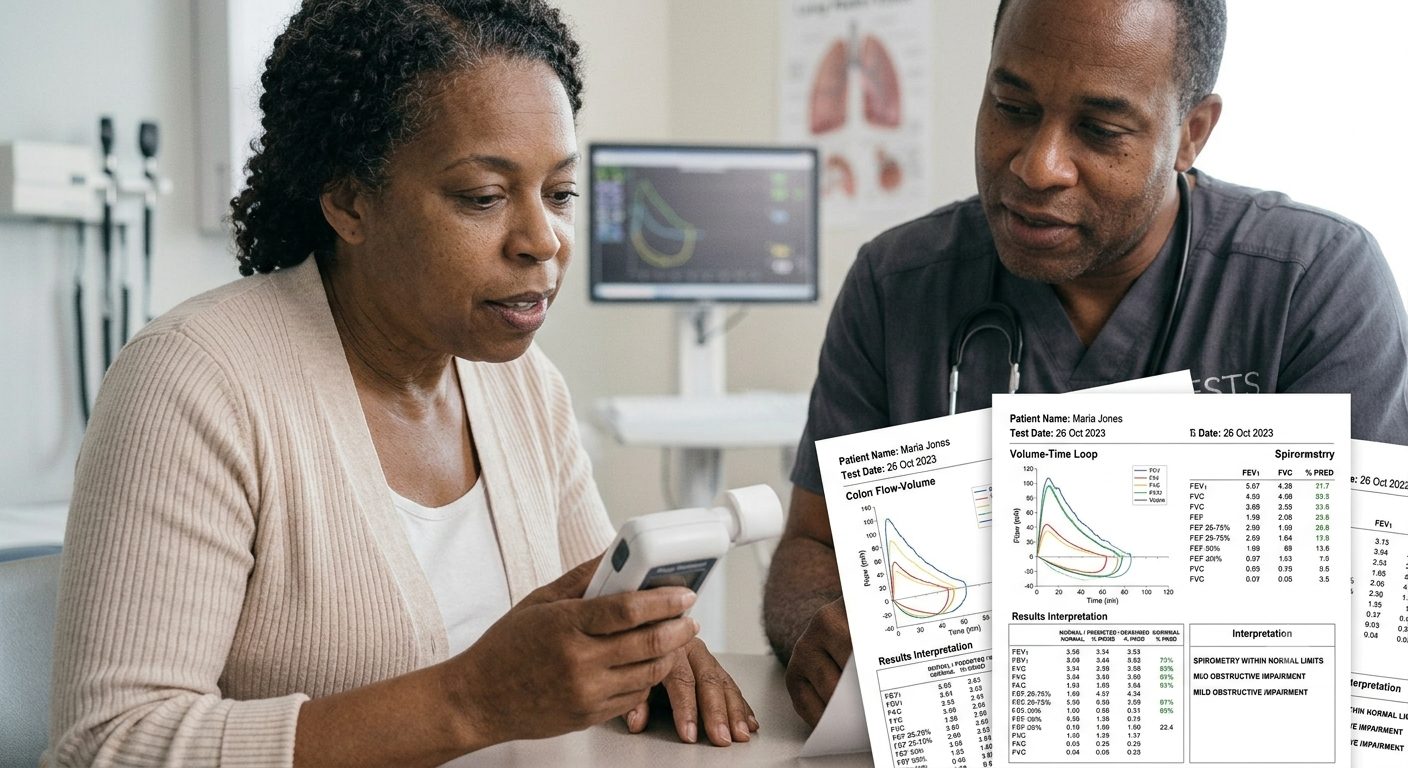
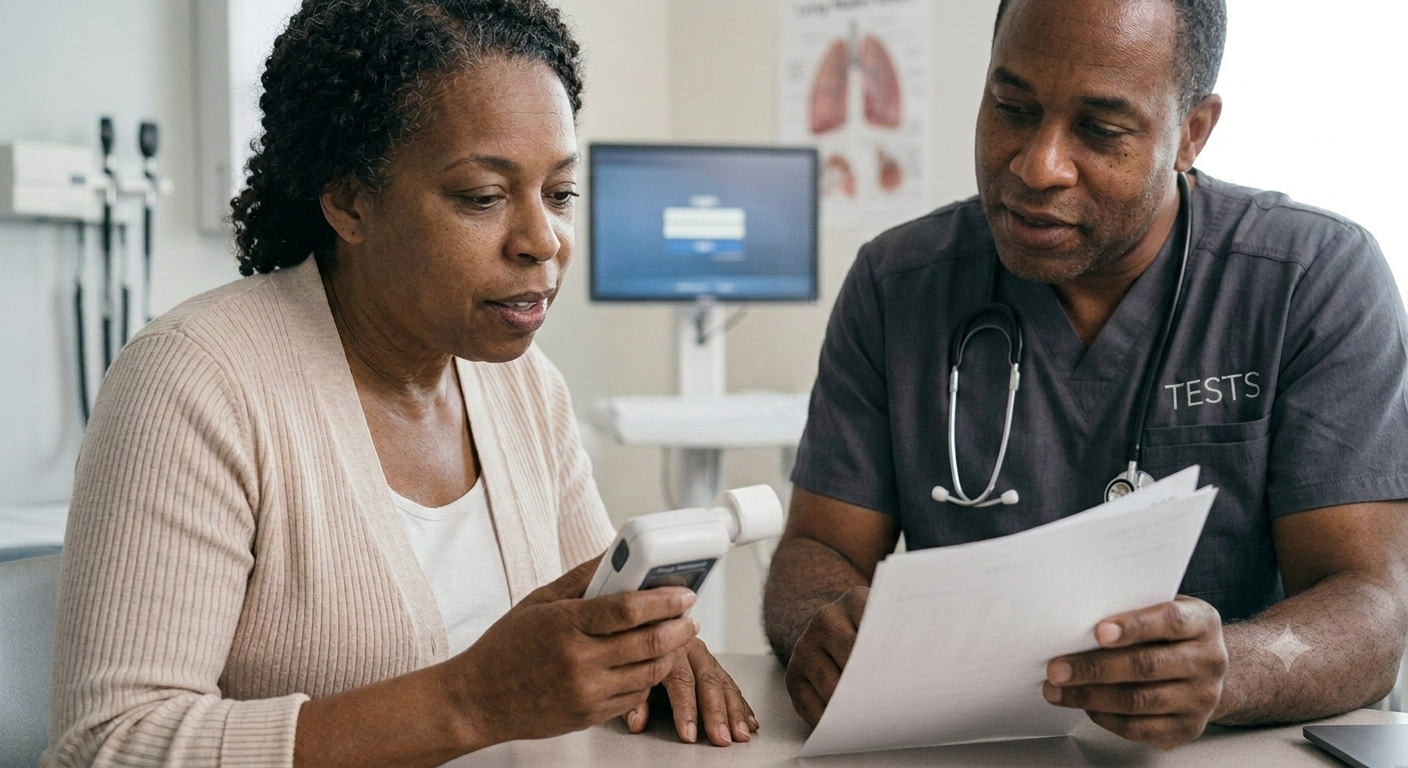
user feedback implementation

Changed region(s): [[0.5625, 0.4688, 1.0, 1.0], [0.4062, 0.1875, 0.5938, 0.4062]]

diff --git a/assets/js/contactForm.js b/assets/js/contactForm.js
@@ -1,33 +1,54 @@
 // assets/js/contactForm.js
 export function initContactForm() {
-  const form = document.getElementById('responsiveContactForm');
+  const form = document.getElementById("responsiveContactForm");
   if (!form) return;
-  
-  form.addEventListener('submit', async (e) => {
+
+  form.addEventListener("submit", async (e) => {
     e.preventDefault();
     const submitBtn = form.querySelector('button[type="submit"]');
     const originalText = submitBtn.innerHTML;
     submitBtn.innerHTML = '<i class="fas fa-spinner fa-spin"></i> Sending...';
     submitBtn.disabled = true;
-    
+
     // Simulate form submission (replace with actual API endpoint)
-    await new Promise(resolve => setTimeout(resolve, 1000));
-    
+    const payload = {
+      name: document.getElementById("name").value,
+      email: document.getElementById("email").value,
+      phone: document.getElementById("phone").value,
+      message: document.getElementById("message").value,
+    };
+
+    const res = await fetch("http://localhost:5000/api/enquiry", {
+      method: "POST",
+      headers: {
+        "Content-Type": "application/json",
+      },
+      body: JSON.stringify(payload),
+    });
+
+    const data = await res.json();
+
+    if (!res.ok) {
+      throw new Error(data.error || "Failed to send");
+    }
+
     // Show success message
     const formContainer = form.parentElement;
-    const successMsg = document.createElement('div');
-    successMsg.className = 'mt-4 p-3 bg-emerald-50 text-emerald-700 rounded-xl text-sm text-center';
-    successMsg.innerHTML = '<i class="fas fa-check-circle mr-1"></i> Thank you! We\'ll contact you shortly.';
+    const successMsg = document.createElement("div");
+    successMsg.className =
+      "mt-4 p-3 bg-emerald-50 text-emerald-700 rounded-xl text-sm text-center";
+    successMsg.innerHTML =
+      '<i class="fas fa-check-circle mr-1"></i> Thank you! We\'ll contact you shortly.';
     form.reset();
-    form.style.display = 'none';
+    form.style.display = "none";
     formContainer.appendChild(successMsg);
-    
+
     submitBtn.innerHTML = originalText;
     submitBtn.disabled = false;
-    
+
     // Reset after 5 seconds
     setTimeout(() => {
-      form.style.display = 'block';
+      form.style.display = "block";
       successMsg.remove();
     }, 5000);
   });

diff --git a/components/contact.html b/components/contact.html
@@ -8,12 +8,14 @@
         </span>
 
         <h2
-          class="text-2xl md:text-3xl font-bold mt-2 text-white leading-tight"
+          class="text-2xl md:text-3xl font-bold mt-2 text-white leading-tight font-serif-display"
         >
           To save lives through respiratory excellence
         </h2>
 
-        <p class="mt-5 leading-relaxed text-sm theme-text-secondary text-justify">
+        <p
+          class="mt-5 leading-relaxed text-sm theme-text-secondary text-justify"
+        >
           BESTS is ready to elevate lung health services across clinics,
           hospitals, NGOs, and companies in Malawi.
         </p>
@@ -97,7 +99,7 @@
       <div
         class="flex-1 card-dark rounded-3xl shadow-2xl border border-california-gold/20 p-6 md:p-8"
       >
-        <h3 class="text-2xl md:text-3xl font-bold text-white">
+        <h3 class="text-2xl md:text-3xl font-bold text-white font-serif-display">
           Request a callback
         </h3>
 
@@ -107,6 +109,8 @@
 
         <form id="responsiveContactForm" class="space-y-5">
           <input
+            id="name"
+            name="name"
             type="text"
             placeholder="Full name / Organization"
             required
@@ -114,6 +118,8 @@
           />
 
           <input
+            id="email"
+            name="email"
             type="email"
             placeholder="Email address"
             required
@@ -121,12 +127,16 @@
           />
 
           <input
+            id="phone"
+             name="phone"
             type="tel"
             placeholder="Phone number (optional)"
             class="w-full px-5 py-4 rounded-2xl bg-dark-green border border-california-gold/30 focus:border-california-gold focus:ring-2 focus:ring-california-gold/20 outline-none transition text-base text-white placeholder-gray-500"
           />
 
           <textarea
+            id="message"
+            name="message"
             rows="4"
             placeholder="Tell us about your lung health needs..."
             class="w-full px-5 py-4 rounded-2xl bg-dark-green border border-california-gold/30 focus:border-california-gold focus:ring-2 focus:ring-california-gold/20 outline-none resize-none text-base text-white placeholder-gray-500"

diff --git a/components/mission.html b/components/mission.html
@@ -35,8 +35,13 @@
       <div class="absolute inset-0 animate-fadeSlide1">
         <img
           src="assets/images/mission/mission1.png"
-          class="absolute inset-0 w-full h-full object-cover"
+          class="absolute inset-0 w-full h-full object-cover z-0"
         />
+
+        <!-- WORD OVERLAY -->
+        <div class="absolute inset-0 flex items-center justify-center z-10 ">
+          <h3 class="mission-word">Consultation</h3>
+        </div>
       </div>
 
       <!-- IMAGE 2 -->
@@ -44,8 +49,12 @@
       <div class="absolute inset-0 animate-fadeSlide2">
         <img
           src="assets/images/mission/mission2.png"
-          class="absolute inset-0 w-full h-full object-cover"
+          class="absolute inset-0 w-full h-full object-cover z-0"
         />
+
+        <div class="absolute inset-0 flex items-center justify-center z-10">
+          <h3 class="mission-word">Spirometry Testing Support</h3>
+        </div>
       </div>
 
       <!-- IMAGE 3 -->
@@ -53,10 +62,13 @@
       <div class="absolute inset-0 animate-fadeSlide3">
         <img
           src="assets/images/mission/mission3.png"
-          class="absolute inset-0 w-full h-full object-cover"
+          class="absolute inset-0 w-full h-full object-cover z-0"
         />
-      </div>
 
+        <div class="absolute inset-0 flex items-center justify-center z-10">
+          <h3 class="mission-word">Test Result Reporting</h3>
+        </div>
+      </div>
       <!-- VIDEO -->
 
       <div class="absolute inset-0 animate-fadeSlide4">
@@ -65,10 +77,14 @@
           muted
           loop
           playsinline
-          class="absolute inset-0 w-full h-full object-cover"
+          class="absolute inset-0 w-full h-full object-cover z-0"
         >
           <source src="assets/images/mission/mission4.mp4" type="video/mp4" />
         </video>
+
+        <div class="absolute inset-0 flex items-center justify-center z-10">
+          <h3 class="mission-word">Spirometry Testing</h3>
+        </div>
       </div>
 
       <!-- DARK GRADIENT -->

diff --git a/assets/css/components.css b/assets/css/components.css
@@ -522,3 +522,70 @@
   }
 
 }
+
+.mission-word {
+  font-size: clamp(2.8rem, 6vw, 6rem);
+  font-weight: 700;
+  color: var(--california-gold);
+  text-transform: uppercase;
+  letter-spacing: 0.12em;
+
+  opacity: 0;
+  transform: translateY(40px) scale(0.95);
+  animation: missionWordAnim 6s ease-in-out infinite;
+
+  text-shadow: 0 12px 35px rgba(0,0,0,0.6);
+  text-align: center;
+
+    max-width: 90%;
+  padding: 0 1rem;
+  line-height: 1.1;
+  word-break: break-word;
+}
+
+@keyframes missionWordAnim {
+  0% {
+    opacity: 0;
+    transform: translateY(40px) scale(0.9);
+    filter: blur(6px);
+  }
+
+  20% {
+    opacity: 1;
+    transform: translateY(0) scale(1);
+    filter: blur(0);
+  }
+
+  60% {
+    opacity: 1;
+    transform: translateY(0) scale(1.02);
+  }
+
+  100% {
+    opacity: 0;
+    transform: translateY(-30px) scale(1.05);
+    filter: blur(4px);
+  }
+}
+.mission-slider::after {
+  content: "";
+  position: absolute;
+  inset: 0;
+  background: radial-gradient(
+    circle at center,
+    rgba(0,0,0,0.25),
+    rgba(0,0,0,0.75)
+  );
+  z-index: 1;
+}
+
+@media (max-width: 640px) {
+  .mission-word {
+    font-size: clamp(1.4rem, 6vw, 2.5rem);
+    letter-spacing: 0.05em;
+  }
+}
+
+#mission .mission-word {
+  color: var(--california-gold) !important;
+}

diff --git a/components/expertise.html b/components/expertise.html
@@ -42,7 +42,7 @@
           Consultation & Testing Support
         </h3>
 
-        <p class="mt-3 leading-relaxed text-sm md:text-base text-justify">
+        <p class="mt-3 leading-relaxed text-sm md:text-base">
           Expert support for test preparation, interpretation, and clinical
           guidance.
         </p>
@@ -70,8 +70,8 @@
 
         <h3 class="text-xl md:text-2xl font-bold">Spirometry Testing</h3>
 
-        <p class="mt-3 leading-relaxed text-sm md:text-base text-justify">
-          Accurate lung function testing to dianose and monitor respiratory conditions. Test key findings:
+        <p class="mt-3 leading-relaxed text-sm md:text-base">
+          Accurate lung function testing to diagnose and monitor respiratory conditions. Test key findings:
         </p>
 
         <ul class="mt-4 text-sm list-disc pl-5 space-y-1">
@@ -112,7 +112,7 @@
 
         <h3 class="text-xl md:text-2xl font-bold">Test Result Reporting</h3>
 
-        <p class="mt-3 leading-relaxed text-sm md:text-base text-justify">
+        <p class="mt-3 leading-relaxed text-sm md:text-base">
          Clear, structured reports tailored for both healthcare professionals and patients/clients.
         </p>
 

diff --git a/assets/css/animations.css b/assets/css/animations.css
@@ -85,26 +85,31 @@
 
 /* assets/css/animations.css - Add these keyframes */
 @keyframes fadeSlide1 {
-  0%, 23% { opacity: 1; }
-  25%, 100% { opacity: 0; }
+  0%, 18% { opacity: 1; }
+  22%, 100% { opacity: 0; }
 }
 
 @keyframes fadeSlide2 {
-  0%, 25% { opacity: 0; }
-  27%, 48% { opacity: 1; }
-  50%, 100% { opacity: 0; }
+  0%, 22% { opacity: 0; }
+  26%, 43% { opacity: 1; }
+  47%, 100% { opacity: 0; }
 }
 
 @keyframes fadeSlide3 {
-  0%, 50% { opacity: 0; }
-  52%, 73% { opacity: 1; }
-  75%, 100% { opacity: 0; }
+  0%, 47% { opacity: 0; }
+  51%, 68% { opacity: 1; }
+  72%, 100% { opacity: 0; }
 }
 
 @keyframes fadeSlide4 {
-  0%, 75% { opacity: 0; }
-  77%, 98% { opacity: 1; }
-  100% { opacity: 0; }
+  0%, 72% { opacity: 0; }
+  76%, 93% { opacity: 1; }
+  97%, 100% { opacity: 0; }
+}
+
+video {
+  animation: none !important;
+  object-fit: cover;
 }
 
 
@@ -113,7 +118,7 @@
 .animate-fadeSlide3,
 .animate-fadeSlide4 {
 
-  animation-duration:24s;
+  animation-duration:18s;
   animation-iteration-count:infinite;
 
 }

diff --git a/components/hero.html b/components/hero.html
@@ -68,7 +68,7 @@
       <!-- TEXT SIDE -->
       <div class="flex-1 text-center lg:text-left order-2 lg:order-1">
         <h1
-          class="text-5xl md:text-7xl lg:text-8xl font-extrabold leading-[1.15] tracking-tight"
+          class="text-5xl md:text-7xl lg:text-8xl font-extrabold font-serif-display leading-[1.15] tracking-tight"
         >
           <span class="text-dark-green">Lung</span>
           <span class="theme-hero-title">Function</span>

diff --git a/components/about.html b/components/about.html
@@ -9,7 +9,8 @@
       </span>
 
       <h2 class="text-4xl md:text-6xl font-bold mt-5 font-serif-display">
-        Advancing Lung Health in Malawi
+        Advancing Lung 
+         <span class="gradient-hero-text">Health in Malawi</span>
       </h2>
 
       <p class="mt-6 text-base text-justify md:text-lg theme-text-secondary leading-relaxed">

diff --git a/components/partners.html b/components/partners.html
@@ -8,7 +8,7 @@
         TRUSTED PARTNERS
       </span>
 
-      <h2 class="text-4xl md:text-5xl font-bold mt-6 ">
+      <h2 class="text-4xl md:text-5xl font-bold mt-6 font-serif-display">
         Trusted Partners in the
         <span class="text-california-gold">BESTS Journey</span>
       </h2>

diff --git a/components/testimonials.html b/components/testimonials.html
@@ -8,7 +8,7 @@
         TESTIMONIALS
       </span>
 
-      <h2 class="text-4xl md:text-5xl font-bold mt-6 text-white">
+      <h2 class="text-4xl md:text-5xl font-bold mt-6 text-white font-serif-display">
         What Our <span class="text-california-gold">Partners Say</span>
       </h2>
 
